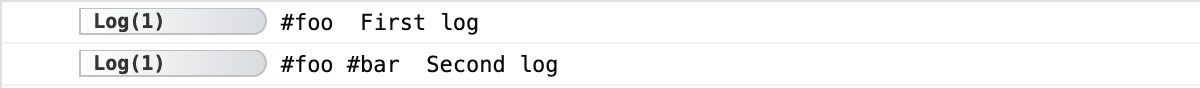
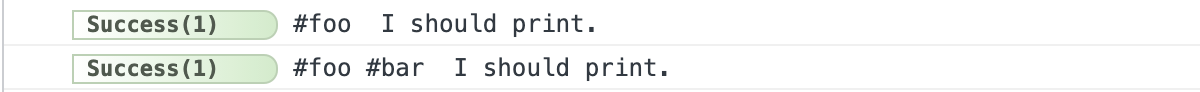
docs(namespace): updates docs on global namespace include filtering to reflect the fixes (#89)
docs(namespace): updates docs on global namespace include filtering to reflect the fixes

Changed region(s): [[0.0617, 0.5682, 0.555, 0.9318], [0.0617, 0.0909, 0.4933, 0.4318], [0.0, 0.0, 1.0, 1.0]]

diff --git a/demo_funcs.js b/demo_funcs.js
@@ -1,6 +1,6 @@
 // Run our demo modules
 export default function runDemo(lib, el) {
-  // screenshots(lib, el);
+  screenshots(lib, el);
   // screenshotDemo(lib);
   defaultLevels(lib);
   defaultLevelsWithEmoji(lib);
@@ -31,22 +31,20 @@ export default function runDemo(lib, el) {
 }
 
 function screenshots({ adze, createShed }, el) {
-  /* We'll create a Shed to enable labels and counting
-   for our example. */
-  createShed();
-
-  // Let's create an Adze configuration
-  var cfg = {
-    logLevel: 1,
+  const cfg = {
+    filters: {
+      namespace: {
+        include: ['foo'],
+      },
+    },
   };
 
-  // Now we'll create a new factory using seal
-  var log = adze(cfg).label('foo').count.seal();
+  const log = adze(cfg).seal();
 
-  // And now we can create new logs using our new factory
-  log().error('An error occurred! Oh no!');
-  log().error('Another error occurred! Quick! Help!');
-  log().log("I won't display because my log level is too high.");
+  log().ns('foo').success('I should print.');
+  log().ns(['foo', 'bar']).success('I should print.');
+  log().ns('bar').fail('I should not print.');
+  log().fail('I should not print because I do not have a namespace.');
 }
 
 function screenshotDemo({ adze }) {

diff --git a/docs/config/README.md b/docs/config/README.md
@@ -258,9 +258,10 @@ const cfg = {
 
 const log = adze(cfg).seal();
 
-adze().ns('foo').log('First log');
-adze().ns(['foo', 'bar']).log('Second log');
-adze().ns('bar').log('Third log');
+log().ns('foo').success('I should print.');
+log().ns(['foo', 'bar']).success('I should print.');
+log().ns('bar').fail('I should not print.');
+log().fail('I should not print because I do not have a namespace.');
 ```
 
 ### Output
